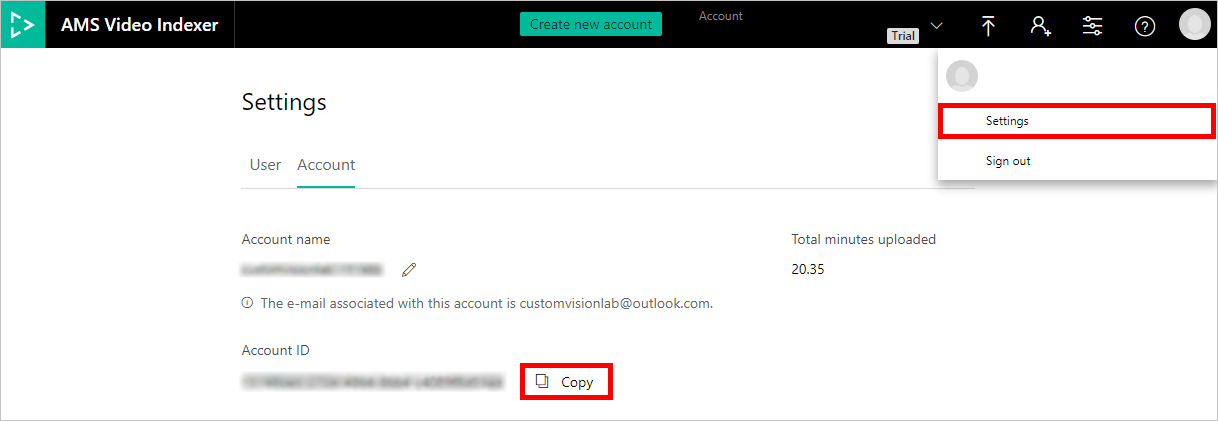
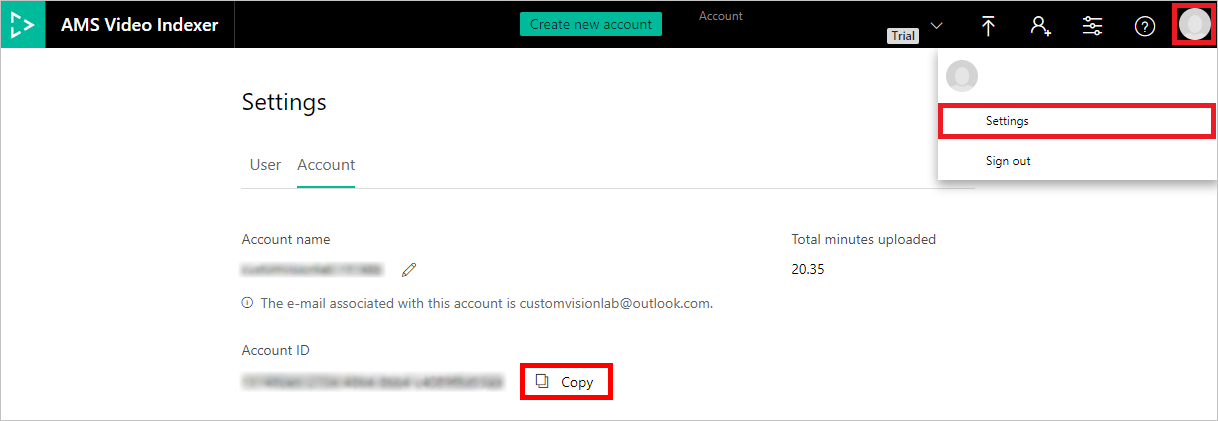
Updated Video Indexer lab

Changed region(s): [[0.7488, 0.247, 0.9984, 0.3397], [0.936, 0.0, 0.9984, 0.1235]]

diff --git a/Labs/AI and Machine Learning/Video Indexer/Video Indexer.md b/Labs/AI and Machine Learning/Video Indexer/Video Indexer.md
@@ -152,7 +152,7 @@ Video Indexer provides a wealth of information regarding each video that it inde
 
 The Video Indexer portal provides a window into the videos that you index and lets you see the information extracted from them. But the real power of Video Indexer lies in the [Video Indexer API](https://docs.microsoft.com/en-us/azure/cognitive-services/video-indexer/video-indexer-use-apis), which lets you submit videos for indexing programmatically and access the results using a REST API. In [Exercise 4](#Exercise4), you will build an app that uses this API to expose content in the videos you indexed in [Exercise 1](#Exercise1). But to call the API, you must first subscribe to it and obtain an API key that is transmitted in each request. In this exercise, you will create a Video Indexer API subscription and retrieve the API key created for it.
 
-1. Open the [Video Indexer API portal](https://api-portal.videoindexer.ai/ "Video Indexer API portal") in your browser and click **SIGN IN** in the top-right corner. Sign in with your Microsoft account — the same one you used to sign in to the Video Indexer portal. Answer **Yes** if prompted to let this app access your info.
+1. Open the [Video Indexer API portal](https://api-portal.videoindexer.ai/) in your browser and click **SIGN IN** in the top-right corner. Sign in with your Microsoft account — the same one you used to sign in to the Video Indexer portal. Answer **Yes** if prompted to let this app access your info.
 
 1. Click **Products**, and then click **Authorization**. 
 
@@ -171,7 +171,7 @@ Now that you have an API key, you can write apps that call the Video Indexer API
 <a name="Exercise4"></a>
 ## Exercise 4: Build an app that uses Video Indexer ##
 
-[Visual Studio Code](http://code.visualstudio.com) is a free, lightweight, and powerful source-code editor available for Windows, macOS, and Linux. It supports a variety of popular programming languages including JavaScript, and it features built-in support for Git. In this exercise, you will use Visual Studio Code to run an app named Video Explorer that surfaces content from the videos you indexed in Exercise 1. Because the app is written with [Node.js](https://nodejs.org/en/) and [Electron](https://electronjs.org/), it, too, can run on Windows, macOS, and Linux. The source code is provided for you. All you have to do is insert the API key that you retrieved in the previous exercise.
+[Visual Studio Code](http://code.visualstudio.com) is a free, lightweight, and powerful source-code editor available for Windows, macOS, and Linux. It supports a variety of popular programming languages including JavaScript, and it features built-in support for Git. In this exercise, you will use Visual Studio Code to run an app named Video Explorer that surfaces content from the videos you indexed in [Exercise 1](#Exercise1). Because the app is written with [Node.js](https://nodejs.org/) and [Electron](https://electronjs.org/), it, too, can run on Windows, macOS, and Linux. The source code is provided for you. All you have to do is insert the API key that you retrieved in the previous exercise.
 
 1. If Node.js isn't installed on your PC, go to https://nodejs.org/ and install the latest LTS version. You can determine whether Node is installed by opening a Command Prompt or terminal window and typing the following command:
 
@@ -195,22 +195,21 @@ Now that you have an API key, you can write apps that call the Video Indexer API
 
 1. Use the EXPLORER panel in Visual Studio code to open the file named **search.js**. Replace SUBSCRIPTION_KEY on line 2 with the API key you retrieved in the previous exercise.
 
-	![Editing search.js to replace SUBSCRIPTION_ID](Images/vs-code.png)
+	![Adding the subscription key](Images/vs-code.png)
 
-	_Editing search.js to replace SUBSCRIPTION_ID_
+	_Adding the subscription key_
 
-1. Open the [Video Indexer portal](https://www.videoindexer.ai/ "Video Indexer portal"), if not already open from [Exercise 2](#Exercise2 "Exercise 2"), click the profile icon in the upper-right corner, select **Settings**, ensure the **Account** tab is selected, then click **Copy** to copy your Account ID to the clipboard.
+1. Return to the [Video Indexer API portal](https://www.videoindexer.ai/), click the profile icon in the upper-right corner, and select **Settings** from the menu. Ensure that the "Account" tab is selected. Then click **Copy** to copy your Account ID to the clipboard.
 
-	![Copying the Video Indexer Account ID](Images/portal-copy-account-id.png)
+	![Copying the Video Indexer account ID](Images/portal-copy-account-id.png)
 
-	_Copying the Video Indexer Account ID_
+	_Copying the Video Indexer account ID_
 
-1. Return to Visual Studio Code, and replace ACCOUNT_ID on line 3 with the Account ID you retrieved in the previous step.
+1. Return to Visual Studio Code and replace ACCOUNT_ID on line 3 with the account ID retrieved in the previous step.
 
-	![Editing search.js to replace ACCOUNT_ID](Images/vs-code-account-id.png)
+	![Adding the account ID](Images/vs-code-account-id.png)
 
-	_Editing search.js to replace ACCOUNT_ID_
-
+	_Adding the account ID_
 
 1. Execute the following command in Visual Studio Code's integrated terminal to start the app:
 
